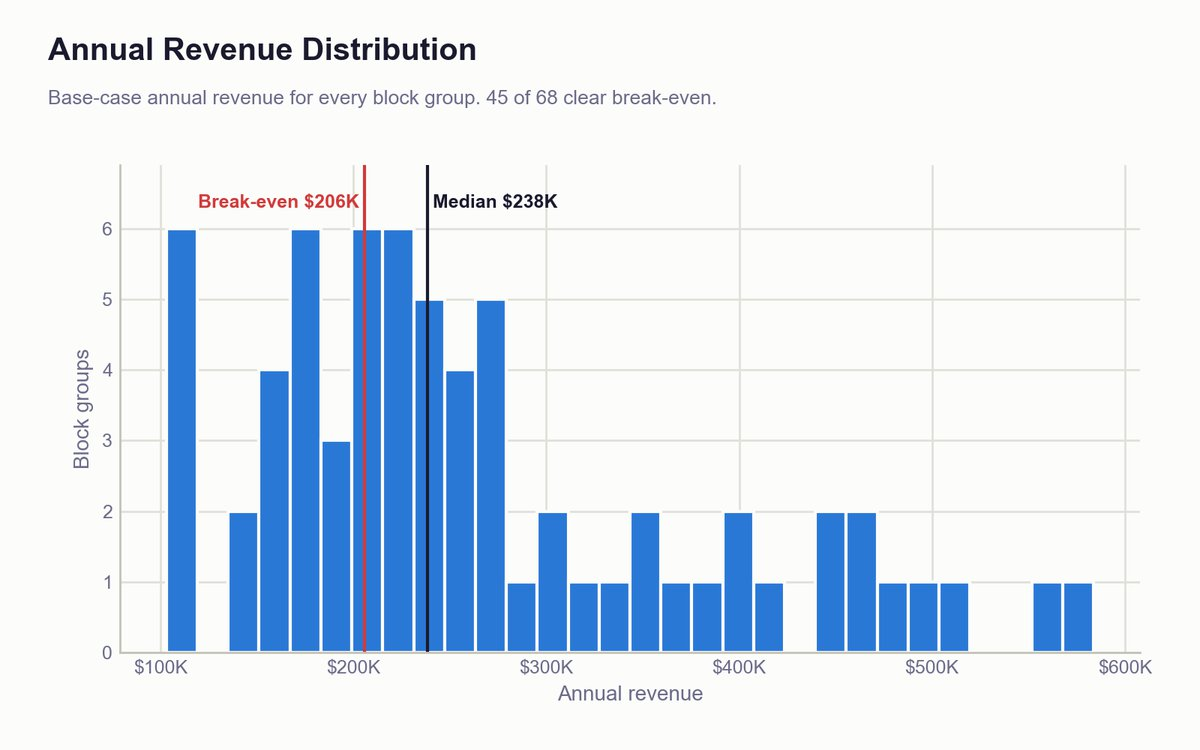
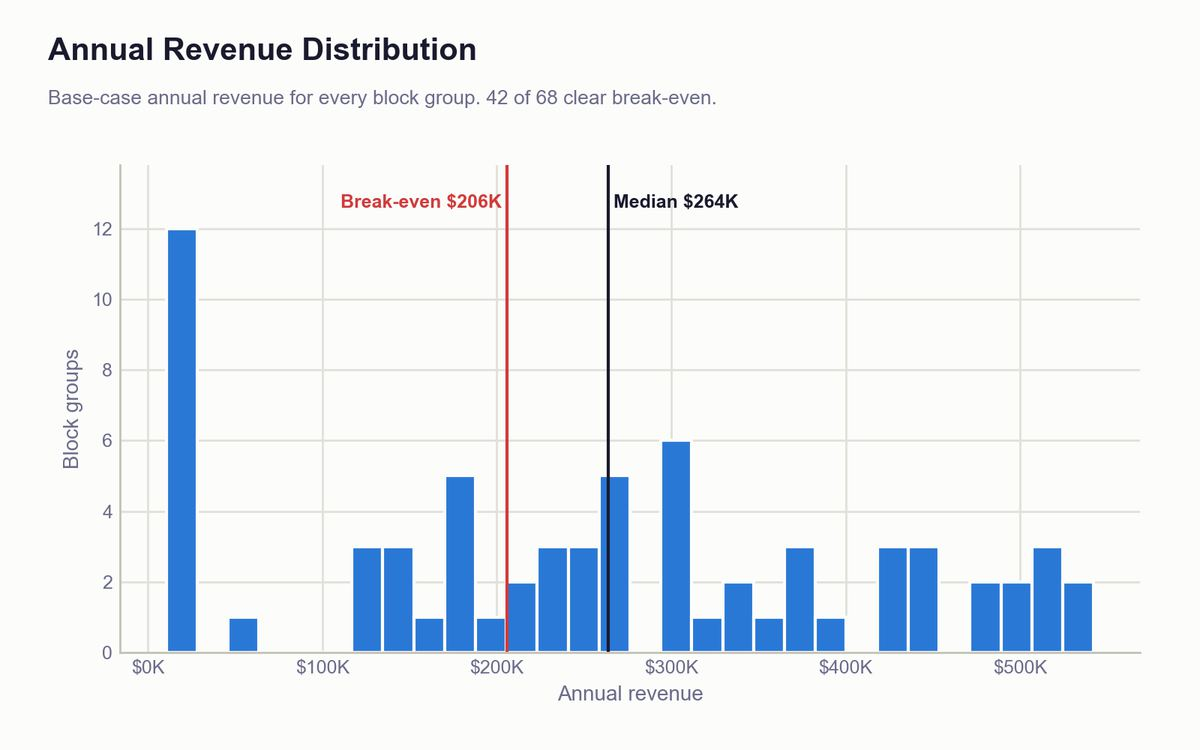
Refresh the Adams County demo maps, charts and numbers

diff --git a/index.html b/index.html
@@ -1509,7 +1509,7 @@
                 <button type="button" class="demo-close" aria-label="Close">&times;</button>
             </div>
             <img src="demo/01-location-ranking.jpg" alt="Map of Adams County, PA block groups shaded by opportunity zone, from recommended to high competition" loading="lazy" width="960" height="600">
-            <div class="demo-stats"><div><strong>68</strong><span>block groups ranked</span></div><div><strong>59</strong><span>top site score (0-100)</span></div><div><strong>36</strong><span>block groups more than 3 km from a competitor</span></div><div><strong>6</strong><span>factors in every score: traffic, income, density, vehicles, growth, competition</span></div></div>
+            <div class="demo-stats"><div><strong>68</strong><span>block groups ranked</span></div><div><strong>72</strong><span>top site score (0-100)</span></div><div><strong>36</strong><span>block groups more than 3 km from a competitor</span></div><div><strong>6</strong><span>factors in every score: traffic, income, density, vehicles, growth, competition</span></div></div>
             <p class="demo-dialog-note">Sample analysis of Adams County, Pennsylvania.</p>
         </dialog>
         <dialog class="demo-dialog" id="demo-02" aria-labelledby="demo-02-title">
@@ -1536,7 +1536,7 @@
                 <button type="button" class="demo-close" aria-label="Close">&times;</button>
             </div>
             <div class="slider" role="region" aria-roledescription="carousel" aria-label="Revenue projection charts" tabindex="0"><div class="slider-track"><img src="demo/04-revenue-1.jpg" alt="Annual revenue distribution across block groups, with median and break-even" loading="lazy" width="1200" height="750"><img src="demo/04-revenue-2.jpg" alt="Annual revenue against site score, colored by capacity utilization" loading="lazy" width="1200" height="750"><img src="demo/04-revenue-3.jpg" alt="Average daily customers by scenario against break-even" loading="lazy" width="1200" height="750"><img src="demo/04-revenue-4.jpg" alt="Profit margin distribution, profitable and unprofitable block groups" loading="lazy" width="1200" height="750"></div><div class="slider-nav"><button type="button" class="slider-prev" aria-label="Previous chart">&#8249;</button><div class="slider-dots"><button type="button" class="slider-dot" aria-label="Chart 1"></button><button type="button" class="slider-dot" aria-label="Chart 2"></button><button type="button" class="slider-dot" aria-label="Chart 3"></button><button type="button" class="slider-dot" aria-label="Chart 4"></button></div><span class="slider-count"></span><button type="button" class="slider-next" aria-label="Next chart">&#8250;</button></div></div>
-            <div class="demo-stats"><div><strong>$130K</strong><span>worst case, strongest block group</span></div><div><strong>$488K</strong><span>expected, strongest block group</span></div><div><strong>$1.46M</strong><span>best case, strongest block group</span></div><div><strong>45 of 68</strong><span>block groups above break-even</span></div></div>
+            <div class="demo-stats"><div><strong>$120K</strong><span>worst case, strongest block group</span></div><div><strong>$554K</strong><span>expected, strongest block group</span></div><div><strong>$1.36M</strong><span>best case, strongest block group</span></div><div><strong>42 of 68</strong><span>block groups above break-even</span></div></div>
             <p class="demo-dialog-note">Sample analysis of Adams County, Pennsylvania.</p>
         </dialog>
         <dialog class="demo-dialog" id="demo-05" aria-labelledby="demo-05-title">
@@ -1545,7 +1545,7 @@
                 <button type="button" class="demo-close" aria-label="Close">&times;</button>
             </div>
             <img src="demo/05-risk-assessment.jpg" alt="Map of Adams County, PA block groups ranked by simulated probability of loss" loading="lazy" width="960" height="600">
-            <div class="demo-stats"><div><strong>5,000</strong><span>simulations per block group</span></div><div><strong>15%</strong><span>lowest chance of a loss</span></div><div><strong>63%</strong><span>median chance of a loss</span></div><div><strong>3 of 68</strong><span>block groups at 20% or lower</span></div></div>
+            <div class="demo-stats"><div><strong>5,000</strong><span>simulations per block group</span></div><div><strong>4%</strong><span>lowest chance of a loss</span></div><div><strong>38%</strong><span>median chance of a loss</span></div><div><strong>20 of 68</strong><span>block groups at 20% or lower</span></div></div>
             <p class="demo-dialog-note">Sample analysis of Adams County, Pennsylvania.</p>
         </dialog>
         <dialog class="demo-dialog" id="demo-06" aria-labelledby="demo-06-title">
